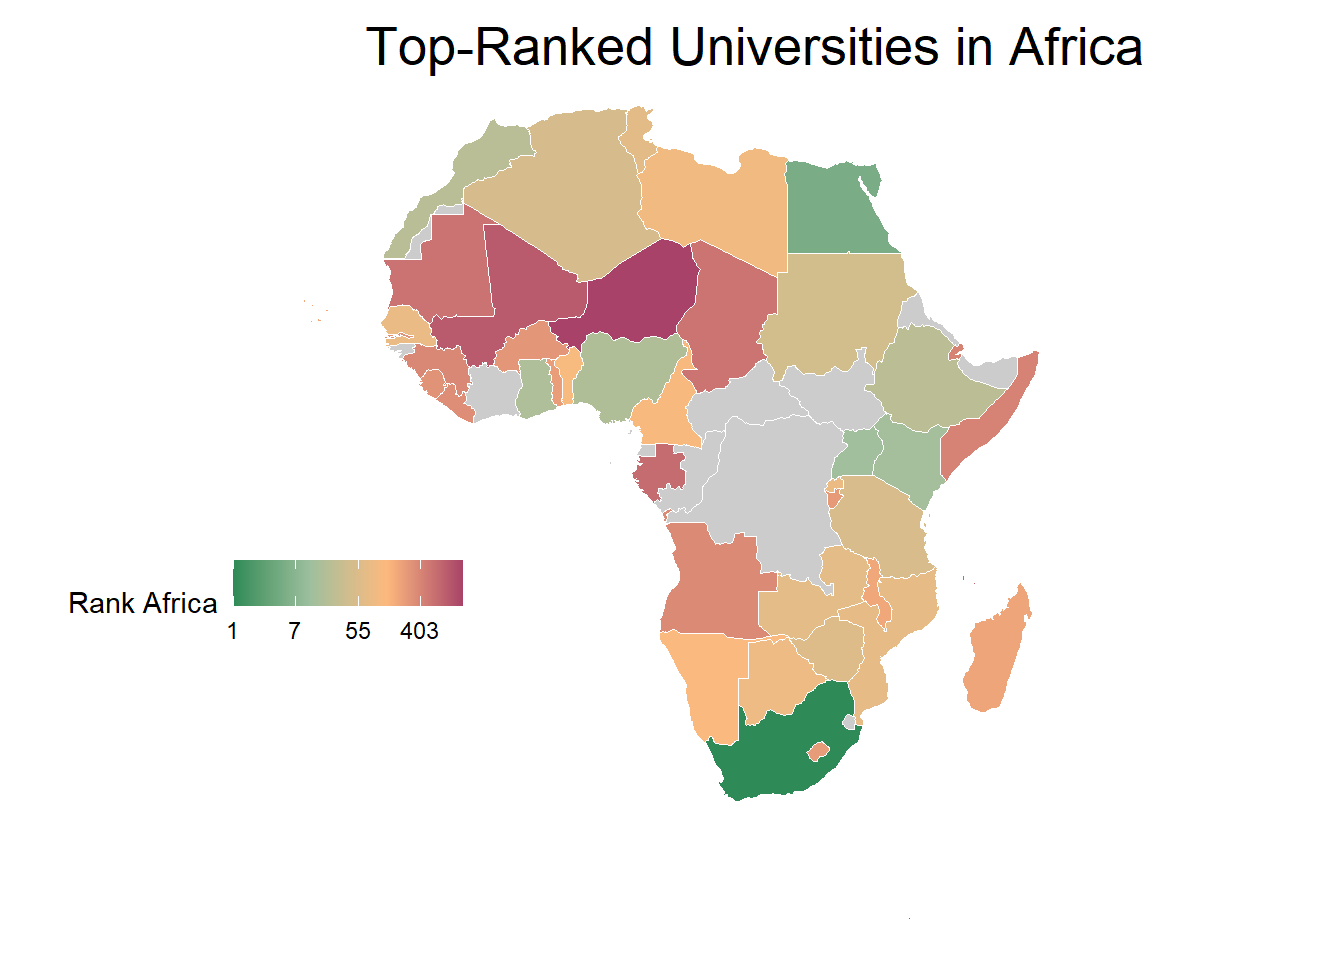
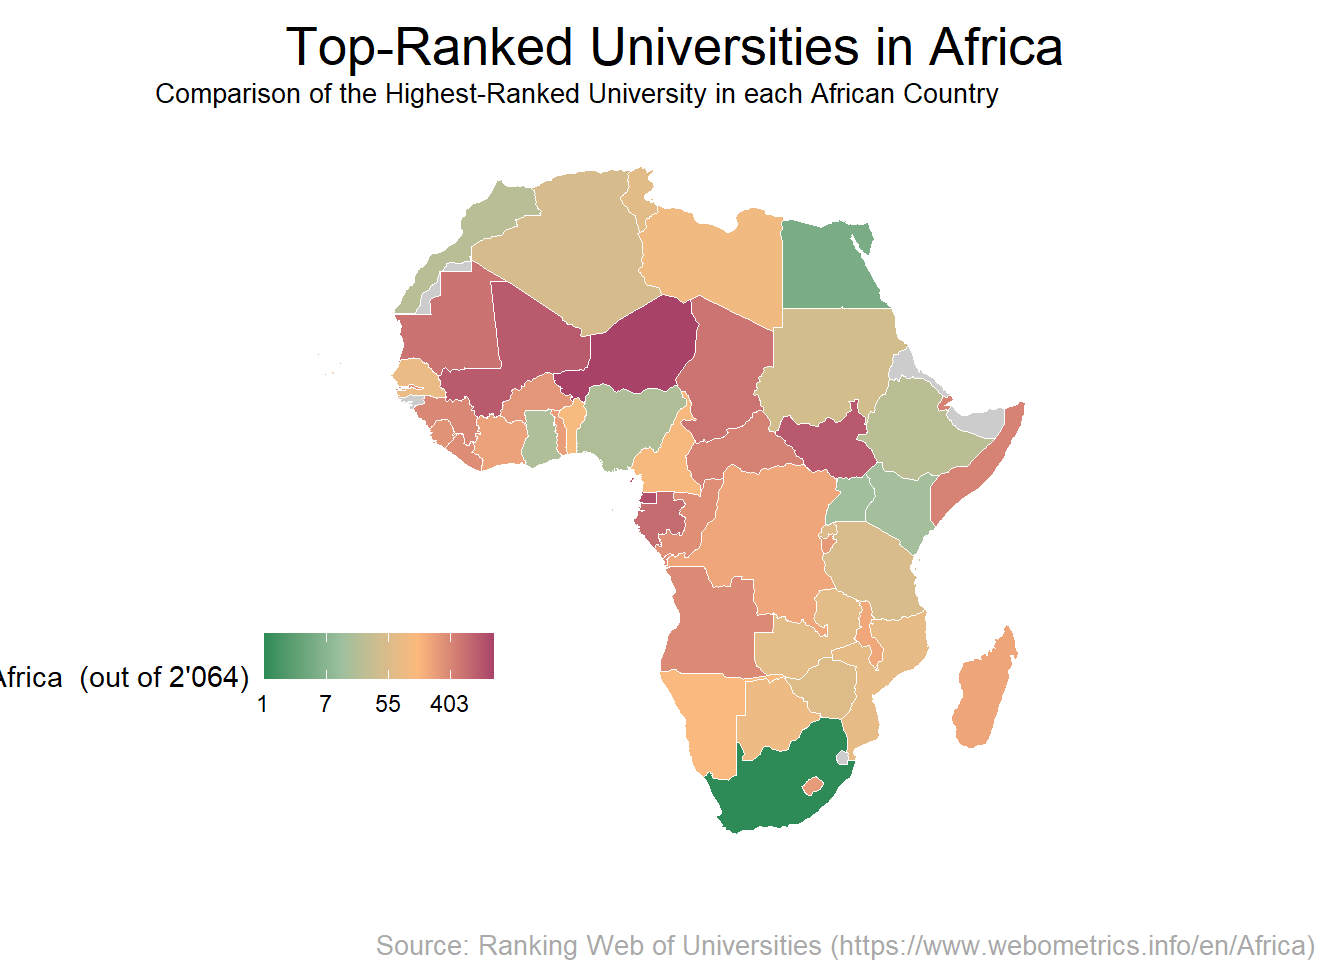
corrected country mapping and improved map description

diff --git a/README.md b/README.md
@@ -27,10 +27,10 @@ devtools::install_github("openwashdata/universityrankingafrica")
 Alternatively, you can download the individual dataset as a CSV or XLSX
 file from the table below.
 
-| dataset           | CSV                                                                                                        | XLSX                                                                                                         |
-|:------------------|:-----------------------------------------------------------------------------------------------------------|:-------------------------------------------------------------------------------------------------------------|
-| ranking           | [Download CSV](https://github.com/openwashdata/universityrankingafrica/inst/extdata/ranking.csv)           | [Download XLSX](https://github.com/openwashdata/universityrankingafrica/inst/extdata/ranking.xlsx)           |
-| african_countries | [Download CSV](https://github.com/openwashdata/universityrankingafrica/inst/extdata/african_countries.csv) | [Download XLSX](https://github.com/openwashdata/universityrankingafrica/inst/extdata/african_countries.xlsx) |
+| dataset           | CSV                                                                                                                 | XLSX                                                                                                                  |
+|:------------------|:--------------------------------------------------------------------------------------------------------------------|:----------------------------------------------------------------------------------------------------------------------|
+| ranking           | [Download CSV](https://github.com/openwashdata/universityrankingafrica/raw/main/inst/extdata/ranking.csv)           | [Download XLSX](https://github.com/openwashdata/universityrankingafrica/raw/main/inst/extdata/ranking.xlsx)           |
+| african_countries | [Download CSV](https://github.com/openwashdata/universityrankingafrica/raw/main/inst/extdata/african_countries.csv) | [Download XLSX](https://github.com/openwashdata/universityrankingafrica/raw/main/inst/extdata/african_countries.xlsx) |
 
 ## MSc. Thesis Project
 
@@ -142,38 +142,33 @@ library(sf)
 library(rnaturalearth)
 
 
-top_ranked_per_country <- ranking |> 
-  select(university, country, rank_africa) |> 
-  group_by(country) |> 
-  filter(rank_africa == min(rank_africa)) |> 
-  ungroup()
+top_ranked_per_country <- african_countries |> 
+  select(countries, best_uni_rank) 
 
 world <- ne_countries(scale = "medium", returnclass = "sf")
-
 africa_map <- left_join(world, 
-                        top_ranked_per_country, by = c("name" = "country")) |>  
+                        top_ranked_per_country, by = c("name_long" = "countries")) |>  
   filter(continent == "Africa")
 
-plot <- ggplot() +
+ggplot() +
   theme_void() +
-  geom_sf(data = africa_map, aes(fill = rank_africa), color = "white", lwd = 0) +
-  scale_fill_gradientn(name = "Rank Africa", 
+  geom_sf(data = africa_map, aes(fill = best_uni_rank), color = "white", lwd = 0) +
+  scale_fill_gradientn(name = "Rank Africa  (out of 2'064)", 
                        trans = "log",
                        labels = scales::label_number(accuracy = 1),
                        colors = c("#2E8B57","#9DBF9E", "#FCB97D", "#A84268"),
                        na.value = "grey80") +
-  labs(title = "Top-Ranked Universities in Africa", ) +
-  theme(legend.position = c(0, 0.4), legend.direction = "horizontal",
-        plot.title = element_text(size = 20, hjust = 3, vjust = 0))
-
-plot
+  labs(title = "Top-Ranked Universities in Africa",
+       subtitle = "Comparison of the Highest-Ranked University in each African Country",
+       caption = "Source: Ranking Web of Universities (https://www.webometrics.info/en/Africa)") +
+  theme(legend.position = c(-0.1, 0.3), legend.direction = "horizontal",
+        plot.title = element_text(size = 20, hjust = 2, vjust = 0),
+        plot.subtitle = element_text(size = 10, hjust = 2, vjust = 0.5),
+        plot.caption = element_text(size = 10, color = "darkgray", hjust = -0.6)) +
+  coord_sf(ylim = c(-40, 40))
 ```
 
 <img src="man/figures/README-unnamed-chunk-11-1.png" width="100%" style="display: block; margin: auto;" />
-
-``` r
-ggsave("plot/africa_map_1.png", plot, width = 10, height = 8, dpi = 300)
-```
 
 ### 2) Exploring Colonial’s Legacy on African University Ranking
 
@@ -184,6 +179,7 @@ current university rankings.
 ``` r
 library(universityrankingafrica)
 library(tidyverse)
+library(broom)
 
 data <- ranking |> 
   filter(colonial_power %in% c("United Kingdom", "France", "Belgium", "Italy", "Portugal"))
@@ -201,28 +197,18 @@ ggplot(data, aes(x = colonial_power, y = rank_africa)) +
 
 # Perform linear regression
 model <- lm(rank_africa ~ colonial_power, data = data)
-print(summary(model))
-#> 
-#> Call:
-#> lm(formula = rank_africa ~ colonial_power, data = data)
-#> 
-#> Residuals:
-#>    Min     1Q Median     3Q    Max 
-#> -628.1 -318.9 -168.4  148.3 1756.4 
-#> 
-#> Coefficients:
-#>                              Estimate Std. Error t value Pr(>|t|)   
-#> (Intercept)                    449.44     167.62   2.681  0.00834 **
-#> colonial_powerFrance           200.63     181.54   1.105  0.27125   
-#> colonial_powerItaly           -301.78     335.23  -0.900  0.36977   
-#> colonial_powerPortugal          80.33     237.05   0.339  0.73527   
-#> colonial_powerUnited Kingdom  -116.83     180.81  -0.646  0.51941   
-#> ---
-#> Signif. codes:  0 '***' 0.001 '**' 0.01 '*' 0.05 '.' 0.1 ' ' 1
-#> 
-#> Residual standard error: 502.9 on 123 degrees of freedom
-#> Multiple R-squared:  0.0896, Adjusted R-squared:  0.05999 
-#> F-statistic: 3.026 on 4 and 123 DF,  p-value: 0.02025
+print(tidy(model))
+#> # A tibble: 5 × 5
+#>   term                         estimate std.error statistic p.value
+#>   <chr>                           <dbl>     <dbl>     <dbl>   <dbl>
+#> 1 (Intercept)                     449.       168.     2.68  0.00834
+#> 2 colonial_powerFrance            201.       182.     1.11  0.271  
+#> 3 colonial_powerItaly            -302.       335.    -0.900 0.370  
+#> 4 colonial_powerPortugal           80.3      237.     0.339 0.735  
+#> 5 colonial_powerUnited Kingdom   -117.       181.    -0.646 0.519
+
+print(summary(model)$r.squared)
+#> [1] 0.0895955
 ```
 
 #### Interpretation
